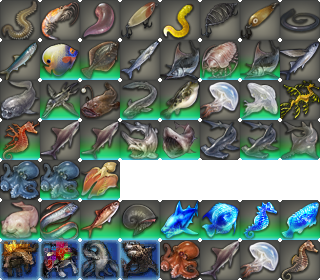
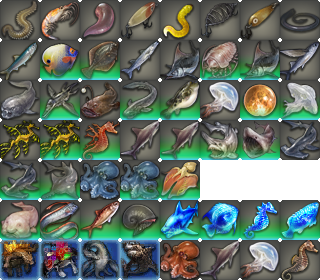
add jellyfish

Changed region(s): [[0.0, 0.2857, 1.0, 0.7143]]

diff --git a/src/ocean-fishing/OceanFishing.jsx b/src/ocean-fishing/OceanFishing.jsx
@@ -227,6 +227,43 @@ class OceanFishing extends Component {
               return (
                 <div className={zf.cell}>
                   <p>This is the Jellyfish route.</p>
+                  <div className={cn(styles.routeTable, zf.gridX, zf.gridPaddingX)}>
+                    <div className={cn(zf.cell, zf.large4)}>
+                      {DEST_MAP.G} {TIME_MAP.D}
+                      <ul className={styles.catches}>
+                        <li><p>No jellyfish here.</p></li>
+                      </ul>
+                    </div>
+                    <div className={cn(zf.cell, zf.large4)}>
+                      {DEST_MAP.S} {TIME_MAP.S}
+                      <ul className={styles.catches}>
+                        <li>
+                          DH &lt;5s<br />
+                          {baitChains.laNosceanJelly}
+                        </li>
+                        <li>
+                          IC–DH<br />
+                          {baitChains.seaNettle}
+                        </li>
+                        <li className={styles.divider}>
+                          <p>Blind DH all [<strong>!</strong>]s before 5s, and recast after 5s. IC is not necessary.</p>
+                          <p>While spectral is not recommended, it won’t kill your run.</p>
+                        </li>
+                      </ul>
+                    </div>
+                    <div className={cn(zf.cell, zf.large4)}>
+                      {DEST_MAP.R} {TIME_MAP.N}
+                      <ul className={styles.catches}>
+                        <li>
+                          IC–DH<br />
+                          {baitChains.floatingSaucer}
+                        </li>
+                        <li className={styles.divider}>
+                          <p>Nothing to say about this.</p>
+                        </li>
+                      </ul>
+                    </div>
+                  </div>
                 </div>
               )
             case 'NS':
@@ -244,19 +281,19 @@ class OceanFishing extends Component {
                       {DEST_MAP.G} {TIME_MAP.S}
                       <ul className={styles.catches}>
                         <li>
-                          IC; DH-IC-DH post-spectral.<br />
+                          IC; DH–IC–DH post-spectral<br />
                           {baitChains.tarnishedShark}
                         </li>
                         <li>
-                          IC–DH.<br />
+                          IC–DH<br />
                           {baitChains.ghostShark}
                         </li>
                         <li>
-                          No buffs.<br />
+                          No buffs<br />
                           {baitChains.quicksilverBlade}
                         </li>
                         <li>
-                          DH–IC–DH.<br />
+                          DH–IC–DH<br />
                           {baitChains.funnelShark}
                         </li>
                         <li className={styles.divider}>
@@ -268,22 +305,22 @@ class OceanFishing extends Component {
                     <div className={cn(zf.cell, zf.large4)}>
                       {DEST_MAP.S} {TIME_MAP.N}
                       <ul className={styles.catches}>
-                        <li><p>No Sharks here.</p><p>Try for Coral Manta?<br />(but save GP)</p></li>
+                        <li><p>No sharks here.</p><p>Try for Coral Manta?<br />(but save GP)</p></li>
                       </ul>
                     </div>
                     <div className={cn(zf.cell, zf.large4)}>
                       {DEST_MAP.R} {TIME_MAP.D}
                       <ul className={styles.catches}>
                         <li>
-                          IC-DH; DH-IC-DH post-spectral.<br />
+                          IC–DH; DH–IC–DH post-spectral<br />
                           {baitChains.chromeHammerhead}
                         </li>
                         <li>
-                          No buffs.<br />
+                          No buffs<br />
                           {baitChains.sweeper}
                         </li>
                         <li>
-                          DH-IC-DH.<br />
+                          DH–IC–DH<br />
                           {baitChains.executioner}
                         </li>
                         <li className={styles.divider}>
@@ -310,11 +347,11 @@ class OceanFishing extends Component {
                       {DEST_MAP.G} {TIME_MAP.S}
                       <ul className={styles.catches}>
                         <li>
-                          IC–DH at 16-28s.<br />
+                          IC–DH at 16-28s<br />
                           {baitChains.cyanOctopus}
                         </li>
                         <li>
-                          DH–IC–DH at &lt;3s.<br />
+                          DH–IC–DH at &lt;3s<br />
                           {baitChains.mermansMane}
                         </li>
                         <li className={styles.divider}>
@@ -327,7 +364,7 @@ class OceanFishing extends Component {
                       {DEST_MAP.N} {TIME_MAP.N}
                       <ul className={styles.catches}>
                         <li>
-                          DH–IC–DH at 4s.<br />
+                          DH–IC–DH at 4s<br />
                           {baitChains.mopbeard}
                         </li>
                         <li className={styles.divider}>

diff --git a/src/ocean-fishing/OceanFishing.scss b/src/ocean-fishing/OceanFishing.scss
@@ -25,7 +25,7 @@
     background-color: lighten($primary-color, 60%);
     transition: background-color 0.1s linear;
     :global(.dark) & {
-      background-color: darken($primary-color, 25%);
+      background-color: darken($primary-color, 10%);
     }
   }
 
@@ -106,7 +106,7 @@
 $fish-icons: (
   (ragworm, krill, plump-worm, versatile-lure, glowworm, shrimp-cage-feeder, heavy-steel-jig, rat-tail),
   (galadion-chovy, heavenskey, navigators-print, ghoul-barracuda, gladius, hi-aetherlouse, great-grandmarlin, tossed-dagger),
-  (elder-dinichthys, gugrusaurus, crimson-monkfish, deep-sea-eel, silencer, la-noscean-jelly, shaggy-seadragon),
+  (elder-dinichthys, gugrusaurus, crimson-monkfish, deep-sea-eel, silencer, la-noscean-jelly, sea-nettle, floating-saucer, shaggy-seadragon),
   (coral-seadragon, tarnished-shark, ghost-shark, quicksilver-blade, funnel-shark, chrome-hammerhead, sweeper, executioner),
   (cyan-octopus, mermans-mane, mopbeard),
   (drunkfish, little-leviathan, shooting-star, sabaton, spectral-megalodon, spectral-discus, spectral-sea-bo, spectral-bass),

diff --git a/src/ocean-fishing/bait-chains.js b/src/ocean-fishing/bait-chains.js
@@ -119,6 +119,15 @@ const baitChains = {
       bait: [{ name: 'ragworm' }, { name: 'silencer', tug: 1 }]
     }]
   ),
+  laNosceanJelly: createBaitChain(
+    [{ name: 'ragworm' }, { name: 'laNosceanJelly', tug: 1, dh: 4 }]
+  ),
+  seaNettle: createBaitChain(
+    [{ name: 'ragworm' }, { name: 'seaNettle', tug: 1, dh: 4 }]
+  ),
+  floatingSaucer: createBaitChain(
+    [{ name: 'krill' }, { name: 'floatingSaucer', tug: 1, dh: 4 }]
+  ),
   tarnishedShark: createBaitChain(
     [{ name: 'plumpWorm' }, { name: 'tarnishedShark', tug: 3, dh: 2 }]
   ),

diff --git a/src/ocean-fishing/FishIcon.jsx b/src/ocean-fishing/FishIcon.jsx
@@ -28,6 +28,7 @@ const ICON_TITLES = {
   silencer: 'Silencer',
   drunkfish: 'Drunkfish',
   laNosceanJelly: 'La Noscean Jelly',
+  seaNettle: 'Sea Nettle',
   floatingSaucer: 'Floating Saucer',
   shaggySeadragon: 'Shaggy Seadragon',
   coralSeadragon: 'Coral Seadragon',
